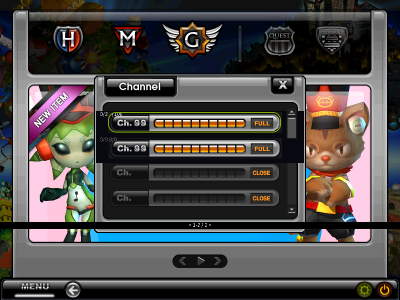
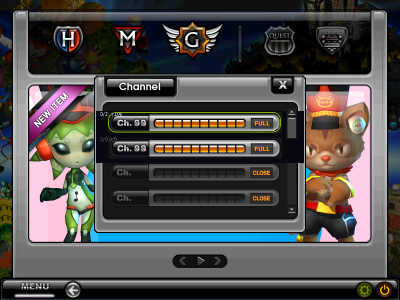
fix(shell): remove the invented channel pager - resolved negative
The 7.55 channel dialog has no pager: the decoded Dialog_ChannelInfo.ojs
bottom band bakes only rim chrome + the scroll down-arrow, the bnd names
no pager rects, and the block's IDC_BUTTON_SCHANNEL_LEFT/RIGHT
(0x12200005/06) stage zero rects and are statically unreachable (dead
authoring vocabulary). List navigation is the scroll column alone. The
shell's procedural <a-b/n> readout and its two tests are removed; the
viewport scroll behavior stays as the labeled OPEN stand-in. Docs record
the negative verdict; the earlier capture measurement is documented as
a rim-ink misread. 1,756 tests green both ways.

Changed region(s): [[0.0, 0.72, 1.0, 0.78]]

diff --git a/crates/o2jam-shell/src/screens/paint.rs b/crates/o2jam-shell/src/screens/paint.rs
@@ -716,18 +716,13 @@ fn paint_channel_scrim(frame: &mut Frame<'_>, shown: usize) {
 /// four rows with the rest reachable by scroll (`/tmp/chan2-list.png`).
 /// Reference-grade, exe-OPEN; scroll interaction itself stays OPEN.
 pub(crate) const CHANNEL_VISIBLE_ROWS: usize = 4;
-/// Contested pager-strip origin in native px. Live-confirmed
-/// 2026-11-09: the bottom strip (y~439-466) is dialog-sheet rim
-/// chrome (brushed metal y439-461, groove 461-463, decorative
-/// streaks below) — no `<a-b/n>` readout or pager arrows in any
-/// state (idle, hover, after row click; 22 channels). Whether pager
-/// text ever paints is CONTESTED: one earlier capture showed strip
-/// ink, the 2026-11-09 session none. OPEN.
-const CHANNEL_PAGER_Y: i32 = 446;
 
 /// Visible Channel slice for `highlight`: viewport top plus shown
 /// count (the highlight always lands inside). Single source shared by
-/// paint and click mapping.
+/// paint and click mapping. NO PAGER: the 7.55 channel dialog has no
+/// pager readout or arrows (bnd has no rects; sheet art bottom is rim
+/// chrome + scroll down-arrow, decoded 2026-11-10; the block's
+/// LEFT/RIGHT buttons stage zero rects and are statically unreachable).
 #[must_use]
 pub(crate) fn channel_viewport(highlight: usize, len: usize) -> (usize, usize) {
     let top = viewport_top(highlight, len);
@@ -739,41 +734,6 @@ pub(crate) fn viewport_top(highlight: usize, len: usize) -> usize {
     highlight
         .saturating_sub(CHANNEL_VISIBLE_ROWS - 1)
         .min(max_top)
-}
-
-/// Pager readout under the rows (`< a-b/n >`, display-only: paging
-/// interaction is untraced, so arrows bind no clicks — P0).
-/// CONTESTED: the strip under the constant is live-confirmed rim
-/// chrome; whether pager text ever paints stays OPEN (see above).
-fn paint_channel_pager(frame: &mut Frame<'_>, top: usize, shown: usize, len: usize) {
-    if len == 0 {
-        return;
-    }
-    // The strip clears first: pager text redraws in place while the
-    // viewport scrolls, and the backbuffer persists across frames.
-    let h = i32::try_from(frame.h).unwrap_or(0);
-    let y = i32::try_from(i64::from(CHANNEL_PAGER_Y) * i64::from(h) / i64::from(NATIVE_HEIGHT))
-        .unwrap_or(0);
-    fill_rect(
-        frame,
-        &Rect {
-            x: 0,
-            y: y - 2,
-            w: u32::try_from(frame.w).unwrap_or(0),
-            h: 14,
-        },
-        0,
-    );
-    let text = format!("< {}-{} / {} >", top + 1, top + shown, len);
-    let w = i32::try_from(frame.w).unwrap_or(0);
-    let text_w = i32::try_from(text_width(&text)).unwrap_or(0);
-    draw_text(
-        frame,
-        w / 2 - text_w / 2,
-        y,
-        &text,
-        pack_xrgb(0xFF, 0xFF, 0xFF),
-    );
 }
 
 /// Item shop: staged art behind an empty catalogue, flat card
@@ -854,7 +814,8 @@ fn channel_row_text(channel: &ChannelState) -> String {
 
 /// Channel rows plus highlight cursor (no background fill: shared by
 /// the flat fallback and the art scene). Only the viewport around the
-/// highlight paints; the pager names the visible slice. `art` selects
+/// highlight paints (no pager: the 7.55 dialog has none — see
+/// [`channel_viewport`]). `art` selects
 /// staged enter-button art over the procedural plates in the art path
 /// (`None` is the flat fallback).
 fn paint_channel_rows(
@@ -894,7 +855,6 @@ fn paint_channel_rows(
     if let Some(art) = art {
         paint_channel_scroll_art(frame, art);
     }
-    paint_channel_pager(frame, top, shown, channels.len());
 }
 
 /// Row of list entry `index` (channel and room lists share the shape).
@@ -8151,7 +8111,7 @@ mod paint_tests {
         // exclusive (`docs/channel-fill.md` "METHOD CORRECTION
         // 2026-11-10"): the verified native close click (577,171)
         // hits; the rect edges read 541/151 inclusive, 589/189
-        // exclusive; row faces and the pager strip stay outside.
+        // exclusive; row faces stay outside.
         assert!(channel_dialog_x_hit(577, 171), "verified native X click");
         assert!(channel_dialog_x_hit(541, 151), "left/top edge inclusive");
         assert!(channel_dialog_x_hit(588, 188), "last inside pixel");

diff --git a/crates/o2jam-shell/src/screens/game.rs b/crates/o2jam-shell/src/screens/game.rs
@@ -4198,24 +4198,6 @@ mod game_tests {
     }
 
     #[test]
-    fn channel_pager_names_visible_slice() {
-        // Display-only readout: no clicks bind (P0).
-        let mut game = ScreenGame::new();
-        game.set_channels(six_channels());
-        game.lane_key(3, true);
-        let mut buf = vec![0u32; 800 * 600];
-        game.paint_at(
-            &mut Frame {
-                buf: &mut buf,
-                w: 800,
-                h: 600,
-            },
-            0,
-        );
-        assert!(white_near(&buf, 800, 600, (400, 446)));
-    }
-
-    #[test]
     fn channel_click_maps_through_viewport() {
         // Highlight on row 5 shows rows 2-5; the top visible band
         // selects row 2.
@@ -4241,29 +4223,6 @@ mod game_tests {
                 active: true,
             })
             .collect()
-    }
-
-    #[test]
-    fn channel_pager_clears_stale_text_on_scroll() {
-        // The pager redraws in place on a persistent backbuffer: stale
-        // glyphs outside the new text must clear.
-        let mut game = ScreenGame::new();
-        game.set_channels(six_channels());
-        game.lane_key(3, true);
-        for _ in 0..5 {
-            game.menu_key(MenuKey::Down, true);
-        }
-        let mut buf = vec![pack_xrgb(0xFF, 0xFF, 0xFF); 800 * 600];
-        game.paint_at(
-            &mut Frame {
-                buf: &mut buf,
-                w: 800,
-                h: 600,
-            },
-            0,
-        );
-        assert_eq!(buf[446 * 800], 0);
-        assert!(white_near(&buf, 800, 600, (400, 446)));
     }
 
     #[test]

diff --git a/docs/parity.md b/docs/parity.md
@@ -37,7 +37,7 @@ invented placement remains (cited per cell), never for lack of art.
 
 | Dimension | 7.55 expectation (evidence) | Shell status | Verdict |
 |---|---|---|---|
-| Composition | 50 controls, decl `0x27`, **no `.bnd`** (bare `BOUND`); `Dialog_ChannelSelectBar.ojs`, back/rank buttons (lifecycle §6) | Soak stages genuine dialog art under the pinned no-fill rule: `Dialog_ChannelInfo.ojs` body at its record anchor (0,0) (exe-mounted sheet 800x468; the parsed body is one 800x466 layer — 2 px runtime delta recorded, uncompensated) and `ChannelInfo_CH_Enter.ojs` frame 0 at the faces (exe art 44x24; parsed frames 44x21). Row geometry is now **exe-pinned** (live Wine memory read 2026-11-09, `docs/channel-fill.md`): the hosting `CStatePlanet` dialog object at `parent+0xF6C` holds the four viewport slot rects (216,224,572,275) / (216,275,572,324) / (216,324,572,375) / (216,375,572,436) at dialog+`0x94`; paint, scrim, and hit-test all ride this table (tops inclusive, bottoms exclusive), and the enter-face inset (row top + 12 → face Y 236) is pinned the same way — the reference capture's `232+50i` anchors were these rects' interior and are retired. Composition correction 2026-11-09 (live captures, `docs/planet.md`): the dialog opens **OVER the planet board** (verified first screen) — the shell paints the staged bound `State_Planet` block (backdrop + emblem buttons + promo + MENU bar) beneath the opaque 800x466 dialog sheet, and the MENU bar band stays visible in the bottom strip (y>468); the pinned no-fill corner rule keeps pixels no art covers untouched, and without board art the strip below y466 stays byte-identical to the art-less frame (soak + shots guard both arms). Composition correction 2026-11-10 (`docs/channel-fill.md` "METHOD CORRECTION"): `Dialog_ChannelInfo.bnd` (27 rects) pairs to the `0x8C` block by code ordinal `(code & 0xFFF) - 1` — its rects 2-5 equal the exe-pinned row rects exactly (4/4), which verifies the pairing. The bnd now pins the X button (541,151)-(589,189), the row-bar mount (row origin +1 → bar at (217,225)), the bar-local children (digit slots (50,11)/(63,11) 13x18, count plate (90,12) 185x19, enter face (285,11) 44x21 — face of row 0 = (502,236), exact against the exe-pinned inset and the capture), and the scroll track (573,213)-(594,429) with arrows at scroll-local (0,0)/(0,196) and the 21x45 body between them. The painter stages `ChannelInfo_CH_Back.ojs` per row (replacing the procedural pill/track chrome while staged — the chrome is the no-archive fallback), the digit/count plates, the enter faces, and the scroll bodies; absent figures fall back to today's behavior. The board EXIT `Planet_Btn_Exit.ojs` (750,561)-(788,599) rides the already-staged bound planet block; hit-testing not added (trivial-pass declined). Block staging live-confirmed: 33 zero-rect records (state `0x12`), the `0x8C` dialog block carries 26 sprite-named records. Hover highlight (live 2026-11-09): the code-mounted `Dialog_ChannelSelectBar.ojs` (348x44) is the list highlight — its sprite record is live-confirmed mounted at dialog+`0x8C` (h/w/pitch 44/348/696 at +0x170) and it paints at the hovered row's rect (216,row_top) 348x44 (hover responds to mouse motion alone); the painter paints the staged bar there and keeps the amber cursor only as the no-figure fallback. Fallback chrome wells are now live-measured (2026-11-09): number well (225,228) 71x32 (the old (205,227) 94x35 pill was 20 px off) and track well (298,229) 195x32; the bnd-pinned enter face ((502,row.t+12) 44x21), X (541,151)-(589,189), and scroll track (573,213)-(594,429) all agreed with live measurement within ±2 px (brightness-run tolerance). Pager: CONTESTED-OPEN — the bottom strip (y~439-466) is live-confirmed dialog-sheet rim chrome and no pager readout or arrows appeared in any state this session (one earlier capture showed strip ink); `CHANNEL_PAGER_Y` points at rim chrome. Bare-board geometry (2026-11-09 reference capture, planet scene) is pinned as `PLANET_BOARD_*` constants for future wiring (promo nav cluster (345,509) 107x27, OPTION (712,562), EXIT (753,562), MENU back-arrow (130,562) 31x32; no hit-testing yet). Still reference-measured (exe-OPEN): the 48x24 plate stand-ins. Guards: `channel_row_hit_maps_the_exe_pinned_bands`, `channel_row_hit_mirrors_the_pinned_row_rects`, `channel_dialog_x_hit_uses_the_bnd_rect`, `channel_enter_face_is_bar_local_per_row`, `channel_bar_art_covers_the_measured_pill_track_band`, `channel_scene_without_bar_figure_keeps_procedural_chrome`, `channel_dialog_body_stages_behind_the_live_list`, `channel_enter_art_covers_the_measured_faces`, `channel_select_bar_paints_at_the_highlighted_row`, `channel_highlight_falls_back_to_the_cursor_without_select_bar`, `channel_fallback_chrome_uses_live_measured_wells`, `planet_board_reference_geometry_is_pinned`, soak `channel_layers_list_over_real_dialog_art`, shots `channel_shot_stages_dialog_art_inside_the_measured_bands`. — still FAIL: the pager stays contested-OPEN and the plate stand-ins stay non-pinned; row content text is an ASCII stand-in (no CP949 glyphs). | FAIL |
+| Composition | 50 controls, decl `0x27`, **no `.bnd`** (bare `BOUND`); `Dialog_ChannelSelectBar.ojs`, back/rank buttons (lifecycle §6) | Soak stages genuine dialog art under the pinned no-fill rule: `Dialog_ChannelInfo.ojs` body at its record anchor (0,0) (exe-mounted sheet 800x468; the parsed body is one 800x466 layer — 2 px runtime delta recorded, uncompensated) and `ChannelInfo_CH_Enter.ojs` frame 0 at the faces (exe art 44x24; parsed frames 44x21). Row geometry is now **exe-pinned** (live Wine memory read 2026-11-09, `docs/channel-fill.md`): the hosting `CStatePlanet` dialog object at `parent+0xF6C` holds the four viewport slot rects (216,224,572,275) / (216,275,572,324) / (216,324,572,375) / (216,375,572,436) at dialog+`0x94`; paint, scrim, and hit-test all ride this table (tops inclusive, bottoms exclusive), and the enter-face inset (row top + 12 → face Y 236) is pinned the same way — the reference capture's `232+50i` anchors were these rects' interior and are retired. Composition correction 2026-11-09 (live captures, `docs/planet.md`): the dialog opens **OVER the planet board** (verified first screen) — the shell paints the staged bound `State_Planet` block (backdrop + emblem buttons + promo + MENU bar) beneath the opaque 800x466 dialog sheet, and the MENU bar band stays visible in the bottom strip (y>468); the pinned no-fill corner rule keeps pixels no art covers untouched, and without board art the strip below y466 stays byte-identical to the art-less frame (soak + shots guard both arms). Composition correction 2026-11-10 (`docs/channel-fill.md` "METHOD CORRECTION"): `Dialog_ChannelInfo.bnd` (27 rects) pairs to the `0x8C` block by code ordinal `(code & 0xFFF) - 1` — its rects 2-5 equal the exe-pinned row rects exactly (4/4), which verifies the pairing. The bnd now pins the X button (541,151)-(589,189), the row-bar mount (row origin +1 → bar at (217,225)), the bar-local children (digit slots (50,11)/(63,11) 13x18, count plate (90,12) 185x19, enter face (285,11) 44x21 — face of row 0 = (502,236), exact against the exe-pinned inset and the capture), and the scroll track (573,213)-(594,429) with arrows at scroll-local (0,0)/(0,196) and the 21x45 body between them. The painter stages `ChannelInfo_CH_Back.ojs` per row (replacing the procedural pill/track chrome while staged — the chrome is the no-archive fallback), the digit/count plates, the enter faces, and the scroll bodies; absent figures fall back to today's behavior. The board EXIT `Planet_Btn_Exit.ojs` (750,561)-(788,599) rides the already-staged bound planet block; hit-testing not added (trivial-pass declined). Block staging live-confirmed: 33 zero-rect records (state `0x12`), the `0x8C` dialog block carries 26 sprite-named records. Hover highlight (live 2026-11-09): the code-mounted `Dialog_ChannelSelectBar.ojs` (348x44) is the list highlight — its sprite record is live-confirmed mounted at dialog+`0x8C` (h/w/pitch 44/348/696 at +0x170) and it paints at the hovered row's rect (216,row_top) 348x44 (hover responds to mouse motion alone); the painter paints the staged bar there and keeps the amber cursor only as the no-figure fallback. Fallback chrome wells are now live-measured (2026-11-09): number well (225,228) 71x32 (the old (205,227) 94x35 pill was 20 px off) and track well (298,229) 195x32; the bnd-pinned enter face ((502,row.t+12) 44x21), X (541,151)-(589,189), and scroll track (573,213)-(594,429) all agreed with live measurement within ±2 px (brightness-run tolerance). Pager: RESOLVED NEGATIVE 2026-11-10 — the bottom strip (y~439-466) is live-confirmed dialog-sheet rim chrome plus the scroll column's down arrow; the decoded sheet art bakes no pager glyphs, the bnd names no pager rects, and the block's `IDC_BUTTON_SCHANNEL_LEFT/RIGHT` (`0x12200005/06`) stage zero rects and are statically unreachable (dead authoring vocabulary). The 7.55 channel dialog has NO pager: list navigation is the scroll column alone; the shell's procedural pager readout is removed and the earlier capture measurement is recorded as a rim-ink misread. Bare-board geometry (2026-11-09 reference capture, planet scene) is pinned as `PLANET_BOARD_*` constants for future wiring (promo nav cluster (345,509) 107x27, OPTION (712,562), EXIT (753,562), MENU back-arrow (130,562) 31x32; no hit-testing yet). Still reference-measured (exe-OPEN): the 48x24 plate stand-ins. Guards: `channel_row_hit_maps_the_exe_pinned_bands`, `channel_row_hit_mirrors_the_pinned_row_rects`, `channel_dialog_x_hit_uses_the_bnd_rect`, `channel_enter_face_is_bar_local_per_row`, `channel_bar_art_covers_the_measured_pill_track_band`, `channel_scene_without_bar_figure_keeps_procedural_chrome`, `channel_dialog_body_stages_behind_the_live_list`, `channel_enter_art_covers_the_measured_faces`, `channel_select_bar_paints_at_the_highlighted_row`, `channel_highlight_falls_back_to_the_cursor_without_select_bar`, `channel_fallback_chrome_uses_live_measured_wells`, `planet_board_reference_geometry_is_pinned`, soak `channel_layers_list_over_real_dialog_art`, shots `channel_shot_stages_dialog_art_inside_the_measured_bands`. — still FAIL: the plate stand-ins stay non-pinned; row content text is an ASCII stand-in (no CP949 glyphs). | FAIL |
 | Input | Pick channel/planet → room (`My_channel`/`My_planet` bridge, file `0x24df70`–`0x24e024`) | Up/Down moves highlight (clamped), Confirm → Room — entry-face click LIVE-VERIFIED 2026-11-09 (one click at (526,248) drives `03EC/0FBE/07D0/07D2/13A4` into `STATE_ROOM`, ~/scratch/planet-verify/); dialog X close and lit-emblem family switch verified the same session | PASS (click path) / OPEN (exe key bindings) |
 | Timing | None documented | n/a | PASS (vacuous) |
 | Transitions | `Channel → Room`; hosted by unknown class (open question) | `Channel → Room` (row confirm / entry faces); dialog X (bnd-pinned rect (541,151)-(589,189); verified close click (577,171)) closes to `Planet`; hosted by `CStatePlanet` (live memory read 2026-11-09) | PASS |
@@ -156,7 +156,7 @@ scenario, so structure, not pixels, is compared):
 | `waiting.png` vs `reference-waiting-4x3.png` | REFRESHED 2026-11-07 (scripted 3012/3013 chat fixture — see below). Top panel (59.6 vs 65.6), seat grid (55.5 vs 53.0), right column (59.4 vs 61.4) unchanged; bottom chat band carries two live rows plus the input caret (bracket-form amber rows at the photo-pinned 17 px pitch — see the 2026-11-08 chat-box verify below). Caption refresh 2026-11-07 (see below): only `waiting.png` changed again — 682 px confined to the six caption rects (MUSICNAME/MAPNAME/BPM/3×SKILLCOUNT), every other shot byte-identical, no pipeline drift. Residuals: invented 2-col x 4-row seat grid, no team buttons/covers (the song dialog lives in `musicselect.png` below); chat texts are ASCII stand-ins, no paging/scroll |
 | `result.png` vs `reference-result-4x3.png` | REFRESHED (was stale). Score dome (48.6 vs 50.7), verdict banner (46.5 vs 48.7), rank table (85.3 vs 48.5), footer (59.1 vs 51.2). The checked-in PNG predated the rank-row wiring (`04e2462`) — its row band was empty; the re-shoot carries row 0 (`YOU`, `1/0/0/0`, `200`) at the pinned columns, guarded by `result_shot_paints_the_rank_table_row` (proven to fail on wrong text). Scenario deltas vs the photo stay: GOOD! solo arm vs LOSE, one local row vs two wire rows, P plate vs C |
 | `musicselect.png` vs `reference-musicselect-4x3.png` | NEW (was UNCOVERED — no shot mapped to it). The walk now repaints Waiting through the host song flow (installed 7.55 562-song catalog, pick id 757 Hard X3.5; 4-song synthetic fallback without game data) under genuine `DAILOG_SELECTMUSIC` art, and the staged structure paints over it: filter columns (75.0 vs 183.4), search table (61.3 vs 83.2), status + search row (76.4 vs 114.7), chosung + OK (84.3 vs 128.1) — staged ink in every band on both sides. Still FAIL: per-chart level and grade cells draw the unknown dash (never staged), the 다운/듣기/정보 icon cells stay blank (no staged art), chosung hangul + word cells stay blank (no CP949 glyphs), the dialog bind pairing is unproven (the every-bound-entry proof covers Playing + Room only), and pager/search/chosung are display-only. Guarded by `musicselect_shot_repaints_waiting_with_song_panel`, `musicselect_fallback_catalog_lists_four_synthetic_songs`, `musicselect_dialog_structure_paints_search_tab_over_waiting` |
-| `channel.png` | REFRESHED 2026-11-10 (re-scoped walk): composition now matches the verified first screen — the staged planet board (bound `State_Planet` block: backdrop, five emblems, promo, MENU bar) paints beneath the opaque 800x466 dialog sheet with the MENU bar band visible in the bottom strip; the walk reaches the shot straight from Avi (dialog over board at boot), and the no-fill corner guards cover both the nothing-beneath and board-beneath arms. Still FAIL: face X/chrome, interior chrome, and pager stay reference-measured; select-bar/back/close/num/count/scroll parts unmounded (sizes pinned, positions OPEN); row content text is an ASCII stand-in (no CP949 glyphs) |
+| `channel.png` | REFRESHED 2026-11-10 (file-native geometry + hover bar): rows/X/face/scroll all bnd-pinned (pairing exe-verified), hover highlight is the code-mounted `Dialog_ChannelSelectBar` at the hovered row, fallback wells live-measured, dialog over the board with the MENU bar beneath. Pager removed — resolved negative (no pager in the 7.55 dialog; scroll column only). Still FAIL: plate stand-ins and row content text (ASCII, no CP949 glyphs) |
 | `room.png` | HOLD, byte-identical (no drift). No reference photo covers it |
 | `planet.png` | REFRESHED 2026-11-10 (re-scoped walk): now the BARE board — the walk shoots it after the dialog X (reference-measured zone, native (557,195) modulo chrome) closes the dialog; the staged 17-placement bound block (backdrop, five buttons, promotion image, MENU bar) paints with no dialog over it. A following lit-emblem (HARD) click reopens the channel dialog and records the pick (LIVE-VERIFIED 2026-11-09: the emblems are server
 channel families, EASY active at boot ~21 s after login; guarded by `lit_emblem_click_reopens_the_channel_dialog`); the amber-cursor stand-in is covered by returning to the board (`planet_shot_stages_bound_art_with_the_picked_band`). Still FAIL: no captions (TEXT sources OPEN), cursor is a stand-in (no evidenced highlight), FREE/DRUM stay unbound (P0), promo cells and EXIT/OPTION unwired (hit geometry not fully pinned), no reference photo covers it |

diff --git a/docs/channel-fill.md b/docs/channel-fill.md
@@ -357,9 +357,16 @@ VERIFICATION PASS (2026-11-09 second session, `~/scratch/channel-geom2/`):
 - Fallback chrome wells (live-measured, baked in the staged bar art):
   number well (225,228) 71x32 (the old 205,227 pill was 20 px off);
   track well (298,229) 195x32.
-- PAGER: the bottom strip (y~439-466) is dialog-sheet rim chrome,
-  live-confirmed in every state; whether pager text ever paints stays
-  CONTESTED (the 2026-11-07 capture read strip ink; this session none).
+- PAGER: RESOLVED NEGATIVE 2026-11-10. The bottom strip (y~439-466)
+is dialog-sheet rim chrome (brushed metal y439-461, groove 461-463,
+streaks below) + the scroll column's down arrow — the decoded sheet
+art (`Dialog_ChannelInfo.ojs` bottom band, colorkey 0x7D5F) bakes no
+pager glyphs, the bnd names no pager rects, and the block's
+`IDC_BUTTON_SCHANNEL_LEFT/RIGHT` (`0x12200005/06`) stage zero rects
+and are statically unreachable (dead authoring vocabulary). The 7.55
+channel dialog has NO pager; list navigation is the scroll column
+alone. The earlier "pager strip" capture measurement was rim-ink
+misread.
 - Bare-board reference-measured rects: promo nav cluster (345,509)
   107x27; OPTION (712,562); EXIT (753,562); MENU back-arrow (130,562)
   31x32 — all within 2-3 px of the bnd-pinned origins where both exist.
